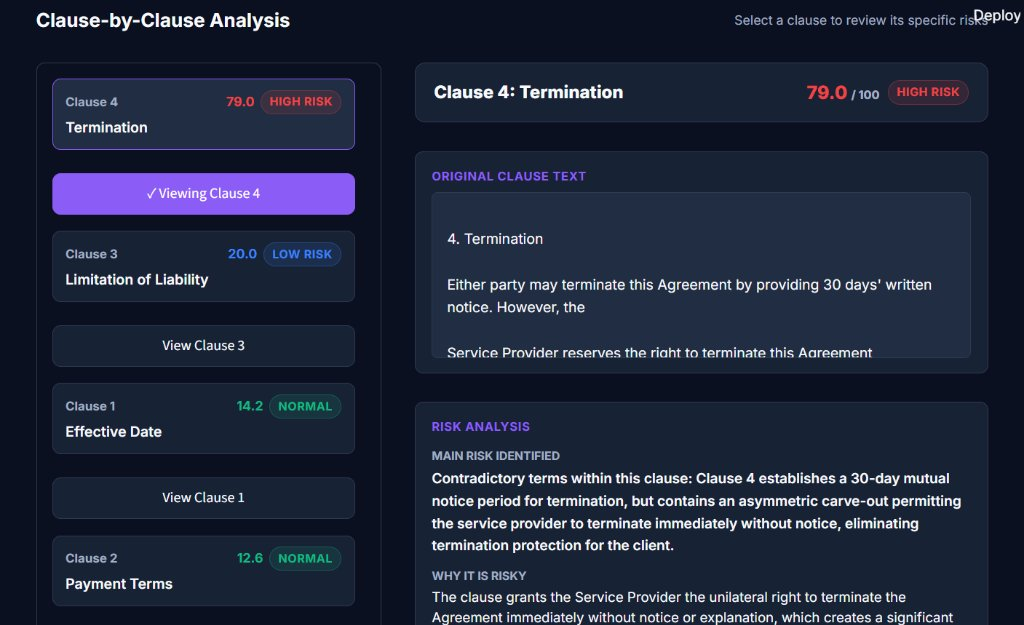
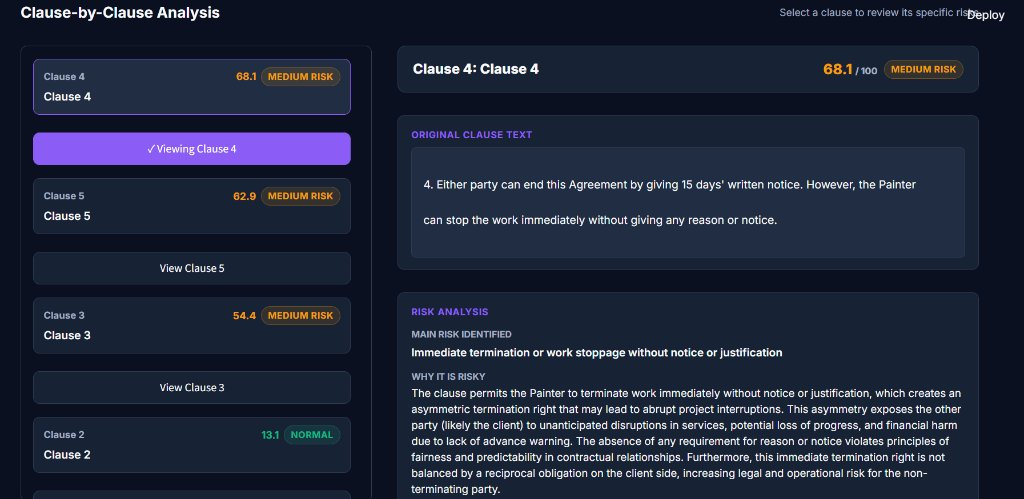
Update README with latest application screenshots

diff --git a/README.md b/README.md
@@ -4,178 +4,51 @@ ContractRisk AI is an AI-powered contract risk analysis system designed to evalu
 
 ## Screenshots
 
-### Contract Upload
-![Contract Upload Screen](docs/screenshots/upload.png)
-*Minimal upload interface supporting PDF and DOCX documents up to 20 MB.*
+### Landing Page
+![Landing Page](docs/screenshots/landing-page.png)
+*Contract upload interface supporting PDF and DOCX documents up to 20 MB.*
 
-### Contract Processing
-![Contract Processing Pipeline](docs/screenshots/processing.png)
-*Real-time pipeline monitor tracking progress across extraction, segmentation, classification, and reasoning stages.*
+### Processing Progress
+![Processing Progress](docs/screenshots/processing-progress.png)
+*Contract analysis pipeline tracking execution across real-time processing stages.*
 
-### Risk Summary
-![Overall Risk Summary Dashboard](docs/screenshots/risk-summary.png)
-*Overall contract risk score, distribution across risk categories, and contractual risk alerts.*
+### Analysis Overview
+![Analysis Overview](docs/screenshots/analysis-overview.png)
+*Overall contract risk score, risk distribution across categories, and contractual risk alerts.*
 
 ### Future Scenario Prediction
-![Future Scenario Prediction Card](docs/screenshots/future-scenarios.png)
-*Hypothetical dispute scenarios and operational consequences forecasted by the local Qwen3 model.*
+![Future Scenario Prediction](docs/screenshots/future-scenario.png)
+*Predicted risks, possible consequences, and relevant clauses generated by the local Qwen3 model.*
 
 ### Clause-by-Clause Analysis
-![Clause-by-Clause Analysis View](docs/screenshots/clause-analysis.png)
-*Interactive clause review showing original contract text alongside plain-English risk assessments and unfavorable terms.*
+![Clause-by-Clause Analysis](docs/screenshots/clause-analysis.png)
+*Individual clause risk score, extracted original text, and detailed plain-English risk explanation.*
 
 ## Tech Stack
 
-| Category | Technologies |
-|---|---|
-| Language | Python 3.11 |
-| NLP | spaCy, Transformers |
-| Clause Classification | BERT (`bert-base-uncased`) |
-| Embeddings | Sentence Transformers (`all-MiniLM-L6-v2`) |
-| Vector Search | FAISS |
-| RAG | LangChain |
-| Local LLM | Qwen3 4B GGUF via LM Studio |
-| Risk Analysis | Python Regex Rule Engine + Hybrid Scoring |
-| Backend | FastAPI, Pydantic |
-| Database | PostgreSQL, SQLAlchemy, Alembic |
-| Frontend | Streamlit |
-| Document Processing | PyMuPDF, python-docx |
-| ML Framework | PyTorch |
-| Hardware | NVIDIA RTX 3050 4GB GPU, 16GB RAM |
-| Environment | Windows, Python virtual environment |
+| Technology | Purpose |
+| :--- | :--- |
+| **Python** | Core application programming language |
+| **Streamlit** | Interactive dark legal-tech dashboard |
+| **FastAPI** | RESTful backend API service for contract analysis |
+| **PostgreSQL** | Relational database for persistent contract and clause storage |
+| **SQLAlchemy** | Database ORM and schema management |
+| **PyTorch** | Machine learning framework for local deep learning inference |
+| **Hugging Face Transformers** | Supervised legal BERT classifier trained across 41 CUAD categories |
+| **Sentence Transformers** | Dense vector representations for clauses (`all-MiniLM-L6-v2`) |
+| **FAISS** | Fast vector similarity search over indexed benchmark precedents |
+| **Qwen3 (via LM Studio)** | Local language model for risk explanations and dispute scenario prediction |
+| **PyMuPDF** | Digital text and layout extraction from PDF agreements |
+| **python-docx** | Structured text extraction from DOCX agreements |
 
-## Development Phases
+## Workflow
 
-1. **Environment Setup**: Configured Python 3.11, CUDA 11.8, PyTorch GPU acceleration, and LM Studio local runtime.
-2. **Dataset Preparation & Validation**: Cleaned, normalized, and partitioned 9,447 contract clauses into deduplicated train, validation, and test splits.
-3. **BERT Clause Classification**: Fine-tuned `bert-base-uncased` across 41 legal clause categories and evaluated classification performance.
-4. **Document Processing**: Implemented robust text extraction and normalizers for PDF (PyMuPDF) and DOCX (python-docx) files.
-5. **Clause Segmentation**: Developed structural boundary segmentation using spaCy to parse contracts into discrete numbered clauses.
-6. **Embeddings & FAISS Retrieval**: Built semantic representations with `all-MiniLM-L6-v2` and constructed a FAISS similarity search index.
-7. **RAG Integration & Local LLM**: Assembled contextual retrieval prompts and integrated local Qwen3 4B via LM Studio's OpenAI-compatible API.
-8. **Hybrid Risk Analysis & Scoring**: Implemented the deterministic Regex Risk Engine (`src/risk_analysis/rules.py`, `rule_engine.py`), Future Scenario Predictor, and multi-factor scoring.
-9. **PostgreSQL Persistence**: Designed relational SQLAlchemy models and Alembic migrations for contracts, clauses, risk scores, and scenario records.
-10. **FastAPI Backend**: Exposed RESTful endpoints for contract ingestion, pipeline execution, document queries, and system health checks.
-11. **Streamlit Frontend**: Built an intuitive 5-state single-workflow web interface for file upload, progress monitoring, and interactive report review.
-12. **End-to-End Validation**: Validated the complete extraction, scoring, and persistence pipeline on full commercial agreement documents.
-13. **Performance Optimization**: Profiled local inference and implemented tiered routing to bypass LLM calls for low-risk clauses, achieving ~26x speedup.
-14. **System Evaluation**: Conducted regression testing (116 passing tests) and established quantitative benchmarking protocols.
-
-## Machine Learning Results
-
-### Dataset
-- **Total Clauses**: 9,447
-- **Classes**: 41 legal clause categories
-- **Train Split**: 6,612 clauses (70%)
-- **Validation Split**: 1,417 clauses (15%)
-- **Test Split**: 1,418 clauses (15%)
-
-### BERT Classifier Performance
-- **Model**: `bert-base-uncased` (`Linear(768, 41)`)
-- **Test Accuracy**: **71.86%**
-- **Test Macro F1**: **0.5115**
-- **Test Weighted F1**: **0.6977**
-
-*These figures represent empirical held-out test-set results from the trained supervised classifier across 41 imbalanced legal clause classes.*
-
-## Risk Scoring
-
-### Clause Risk Score ($S_{\text{clause}} \in [0, 100]$)
-$$S_{\text{clause}} = 0.30 \times S_{\text{BERT}} + 0.35 \times S_{\text{Rule}} + 0.15 \times S_{\text{RAG}} + 0.20 \times S_{\text{LLM}}$$
-
-- $S_{\text{Rule}}$ uses asymptotic saturation: $S_{\text{Rule}} = 100 \times (1 - e^{-\sum \text{severity}})$.
-- Risk Thresholds:
-  - **LOW**: $< 35$
-  - **MEDIUM**: $35 - 69.9$
-  - **HIGH**: $\ge 70$
-
-### Contract-Level Risk Score ($S_{\text{contract}} \in [0, 100]$)
-$$S_{\text{contract}} = 0.60 \times \max(S_{\text{clause}}) + 0.40 \times \operatorname{mean}(S_{\text{clause}})$$
-
-Balances peak catastrophic clause exposure with overall document risk profile.
-
-## How It Works
-
-1. **Upload**: User uploads a `.pdf` or `.docx` contract via the Streamlit interface.
-2. **Text Extraction**: PyMuPDF or python-docx extracts raw text with document metadata.
-3. **Segmentation**: spaCy segments text into discrete numbered clauses and standalone headings.
-4. **Classification**: Fine-tuned BERT assigns a legal category and preliminary risk rating to each clause.
-5. **Rule Matching**: Deterministic Regex Risk Engine evaluates clauses against compiled hazard patterns.
-6. **Vector Search**: Sentence Transformers encodes clauses, and FAISS retrieves top-$k$ reference benchmarks.
-7. **LLM Reasoning**: Risky clauses are routed to Qwen3 4B via LM Studio for risk explanation and scenario synthesis.
-8. **Scenario Forecasting**: Future Scenario Predictor generates trigger conditions, consequences, assumptions, and uncertainties.
-9. **Scoring**: Hybrid risk engine calculates calibrated 0–100 clause and contract scores.
-10. **Persistence & Display**: Results are saved to PostgreSQL and rendered interactively in Streamlit.
-
-## API
-
-The FastAPI service exposes the following REST endpoints under `/api/v1`:
-
-- `POST /api/v1/analyze`: Uploads contract, runs full analysis pipeline, persists records, and returns complete report.
-- `GET /api/v1/health`: Checks service health, uptime status, and API version.
-- `GET /api/v1/models`: Returns status of active BERT checkpoint, FAISS index, and local LLM runtime.
-- `GET /api/v1/documents`: Returns paginated list of analyzed contracts from PostgreSQL.
-- `GET /api/v1/documents/{document_id}`: Retrieves complete stored analysis record and clause breakdown by ID.
-
-## Project Structure
-
-```
-AI CLAUSE ANALYSER/
-├── alembic/                # Database migrations
-├── data/                   # Contract datasets and splits (Git-ignored)
-├── docs/                   # Technical documentation
-├── frontend/               # Streamlit application and components
-├── models/                 # Model checkpoints and FAISS index (Git-ignored)
-├── notebooks/              # Research and EDA notebooks
-├── scripts/                # Utility and verification scripts
-├── src/                    # Core source code (API, DB, ML, RAG, Risk Analysis)
-├── tests/                  # pytest test suite (116 passing tests)
-├── .env.example            # Environment configuration template
-├── requirements.txt        # Python dependencies
-└── README.md               # Project documentation
-```
-
-## Setup
-
-### Prerequisites
-- Python 3.11 on Windows (CUDA-capable NVIDIA GPU recommended)
-- PostgreSQL 15+ running locally
-- LM Studio running locally with `Qwen3 4B Instruct GGUF (Q4_K_M)` loaded
-
-### Local Installation
-```powershell
-# 1. Clone repository
-git clone https://github.com/your-username/contract-risk-ai.git
-cd contract-risk-ai
-
-# 2. Create and activate virtual environment
-python -m venv .venv
-.\.venv\Scripts\Activate.ps1
-
-# 3. Install dependencies
-pip install -r requirements.txt
-
-# 4. Configure environment variables
-copy .env.example .env
-# Edit .env with your local PostgreSQL credentials
-
-# 5. Run database migrations
-alembic upgrade head
-
-# 6. Start LM Studio local server on port 1234
-
-# 7. Start FastAPI backend (Terminal 1)
-python -m uvicorn src.api.main:app --reload --host 127.0.0.1 --port 8000
-
-# 8. Start Streamlit frontend (Terminal 2)
-streamlit run frontend/app.py --server.port 8501
-```
-
-Access the application in your browser at `http://localhost:8501`.
-
-*Note: Model binary checkpoints (`pytorch_model.bin`, ~438 MB), raw datasets, and local `.env` are excluded from Git tracking via `.gitignore`.*
-
-
-## Disclaimer
-
-ContractRisk AI is an automated decision-support research tool intended solely to assist human legal and compliance professionals. It is **not** a lawyer, law firm, or substitute for qualified legal counsel. The classifications, risk scores, and future scenarios produced by this system are heuristic and probabilistic estimates. No legal, financial, or contractual decisions should be made based solely on the outputs of this software.
+1. **Contract Upload** — User uploads a PDF or DOCX contract.
+2. **Text Extraction** — Extract contract text from the document.
+3. **Clause Segmentation** — Divide the contract into individual clauses.
+4. **Clause Classification** — Identify clause categories using the trained BERT model.
+5. **Risk Analysis** — Evaluate clauses using the existing risk detection pipeline.
+6. **Context Retrieval** — Retrieve relevant contractual examples using semantic search.
+7. **AI Explanation** — Generate understandable risk explanations using the local Qwen3 model.
+8. **Future Scenario Prediction** — Generate hypothetical future dispute scenarios based on relevant contract terms.
+9. **Results** — Present the overall risk summary, detected inconsistencies, and clause-by-clause analysis.
